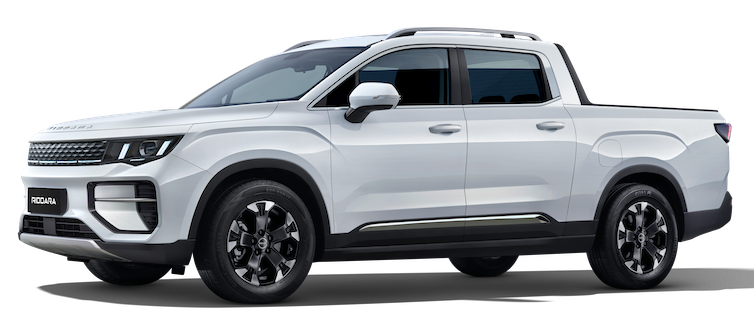
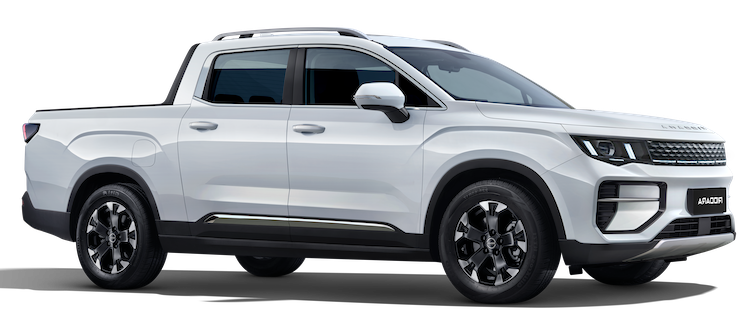
Brand spelling: EasyVolt -> Easy Volt + refresh Riddara image
- Update display text 'EasyVolt' to 'Easy Volt' across all pages, keywords,
  alt text, contact form options, and ecosystem cards. File paths
  (EasyVolt-Fleet.jpg, EasyVolt_Fleet-01.jpeg, etc.) and the existing
  /ecosystem/easyvolt-fleet URL are unchanged to avoid breaking links.
- Refresh public/assets/fleet/Riddara Econ 63kWh.png with the flipped
  version (pickup now faces right).

diff --git a/app/ecosystem/easyvolt-fleet/page.tsx b/app/ecosystem/easyvolt-fleet/page.tsx
@@ -4,22 +4,22 @@ import Image from "next/image";
 import Icon from "@/components/Icon";
 
 export const metadata: Metadata = {
-  title: "EasyVolt Fleet — 250+ EV Taxis in Phuket",
+  title: "Easy Volt Fleet — 250+ EV Taxis in Phuket",
   description:
-    "EasyVolt and Erawan Volt — 250+ electric taxis operating 24/7 in Phuket. The island's largest EV taxi fleet, running entirely on the EvEra charging network. แท็กซี่ไฟฟ้า ภูเก็ต.",
+    "Easy Volt and Erawan Volt — 250+ electric taxis operating 24/7 in Phuket. The island's largest EV taxi fleet, running entirely on the EvEra charging network. แท็กซี่ไฟฟ้า ภูเก็ต.",
   keywords: [
     "EV taxi Phuket",
     "แท็กซี่ไฟฟ้า ภูเก็ต",
-    "EasyVolt",
+    "Easy Volt",
     "Erawan Volt",
     "Phuket airport transfer EV",
     "MG EP+ taxi",
     "electric taxi Thailand",
   ],
   openGraph: {
-    title: "EasyVolt Fleet — Phuket's Largest EV Taxi Fleet",
+    title: "Easy Volt Fleet — Phuket's Largest EV Taxi Fleet",
     description:
-      "250+ EV taxis operating 24/7 in Phuket under the EasyVolt and Erawan Volt brands.",
+      "250+ EV taxis operating 24/7 in Phuket under the Easy Volt and Erawan Volt brands.",
     images: ["/assets/fleet/EasyVolt-Fleet.jpg"],
   },
 };
@@ -47,7 +47,7 @@ export default function Page() {
         <div className="absolute inset-0">
           <Image
             src="/assets/fleet/EasyVolt-Fleet.jpg"
-            alt="EasyVolt EV taxi fleet operating in Phuket — 250+ electric taxis"
+            alt="Easy Volt EV taxi fleet operating in Phuket — 250+ electric taxis"
             fill
             sizes="100vw"
             className="object-cover opacity-75"
@@ -57,13 +57,13 @@ export default function Page() {
         </div>
         <div className="relative container-x py-24 md:py-32">
           <p className="eyebrow text-brand-green">
-            <span className="h-px w-6 bg-brand-green" /> EasyVolt Fleet
+            <span className="h-px w-6 bg-brand-green" /> Easy Volt Fleet
           </p>
           <h1 className="mt-6 max-w-3xl text-4xl md:text-5xl lg:text-6xl font-extrabold leading-[1.05]">
             Phuket's largest EV taxi fleet.
           </h1>
           <p className="mt-6 max-w-2xl text-lg text-white/80 leading-relaxed">
-            EasyVolt and Erawan Volt — 250+ electric taxis covering Phuket
+            Easy Volt and Erawan Volt — 250+ electric taxis covering Phuket
             island-wide, 24/7. Every vehicle charges exclusively on the EvEra
             network.
           </p>
@@ -98,7 +98,7 @@ export default function Page() {
               <div key={p} className="relative aspect-[4/3] overflow-hidden rounded-xl border border-line">
                 <Image
                   src={p}
-                  alt="EasyVolt EV taxi fleet operating in Phuket"
+                  alt="Easy Volt EV taxi fleet operating in Phuket"
                   fill
                   sizes="(max-width: 1024px) 50vw, 380px"
                   className="object-cover"

diff --git a/lib/site.ts b/lib/site.ts
@@ -37,8 +37,8 @@ export const ecosystem = [
   },
   {
     slug: "easyvolt-fleet",
-    title: "EasyVolt Fleet",
-    summary: "250+ EV taxis under EasyVolt and Erawan Volt — operating 24/7 island-wide.",
+    title: "Easy Volt Fleet",
+    summary: "250+ EV taxis under Easy Volt and Erawan Volt — operating 24/7 island-wide.",
     icon: "taxi",
     href: "/ecosystem/easyvolt-fleet",
   },

diff --git a/app/ecosystem/easy-super-charge/page.tsx b/app/ecosystem/easy-super-charge/page.tsx
@@ -21,7 +21,7 @@ const faqs = [
   },
   {
     q: "How do I pay for charging?",
-    a: "Pay via the Easy Super Charge app or QR-code at the charger — debit card, credit card, and Thai mobile banking are supported. EvEra Corporate Fleet and EasyVolt taxi customers are pre-authorised on a corporate account.",
+    a: "Pay via the Easy Super Charge app or QR-code at the charger — debit card, credit card, and Thai mobile banking are supported. EvEra Corporate Fleet and Easy Volt taxi customers are pre-authorised on a corporate account.",
   },
   {
     q: "Are EvEra charging stations open 24/7?",

diff --git a/app/ecosystem/page.tsx b/app/ecosystem/page.tsx
@@ -5,7 +5,7 @@ import { ecosystem } from "@/lib/site";
 export const metadata = {
   title: "Our EV Ecosystem — Six Businesses Powering Phuket's Transition",
   description:
-    "EvEra's six businesses in Phuket: Easy Super Charge (charging network), EasyVolt Fleet (EV taxi), Phuket EV Drive (EV rental), EV Fleet Solutions (corporate fleet), Flagship 880kW Hub, and Prime EV Mobility (vans + buses).",
+    "EvEra's six businesses in Phuket: Easy Super Charge (charging network), Easy Volt Fleet (EV taxi), Phuket EV Drive (EV rental), EV Fleet Solutions (corporate fleet), Flagship 880kW Hub, and Prime EV Mobility (vans + buses).",
   keywords: [
     "EV ecosystem Phuket",
     "EvEra businesses",

diff --git a/app/layout.tsx b/app/layout.tsx
@@ -46,7 +46,7 @@ export const metadata: Metadata = {
     "EvEra",
     "Easy Super Charge",
     "Phuket EV Drive",
-    "EasyVolt",
+    "Easy Volt",
   ],
   authors: [{ name: "EvEra" }],
   creator: "EvEra",

diff --git a/components/ContactInquiryForm.tsx b/components/ContactInquiryForm.tsx
@@ -95,7 +95,7 @@ export default function ContactInquiryForm() {
           <option>Corporate Fleet</option>
           <option>Charging Partnership</option>
           <option>EV Rental</option>
-          <option>EasyVolt Fleet / Taxi</option>
+          <option>Easy Volt Fleet / Taxi</option>
           <option>Government / Public Sector</option>
           <option>Other</option>
         </select>